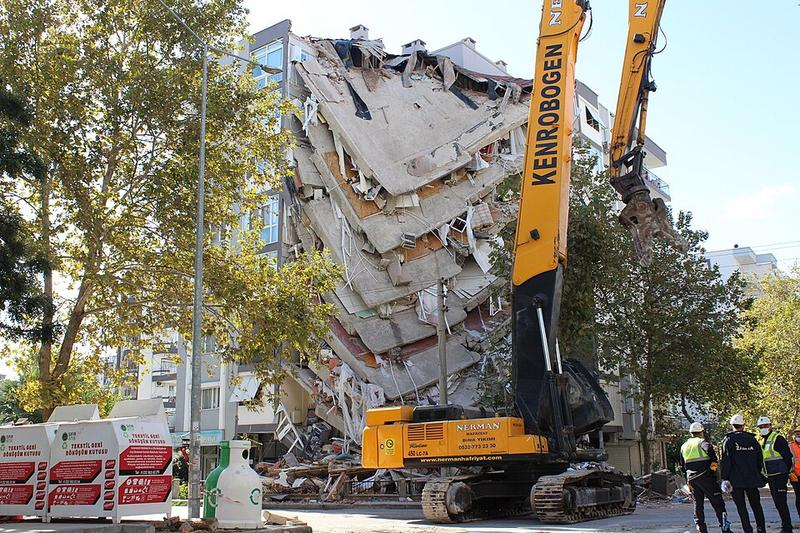
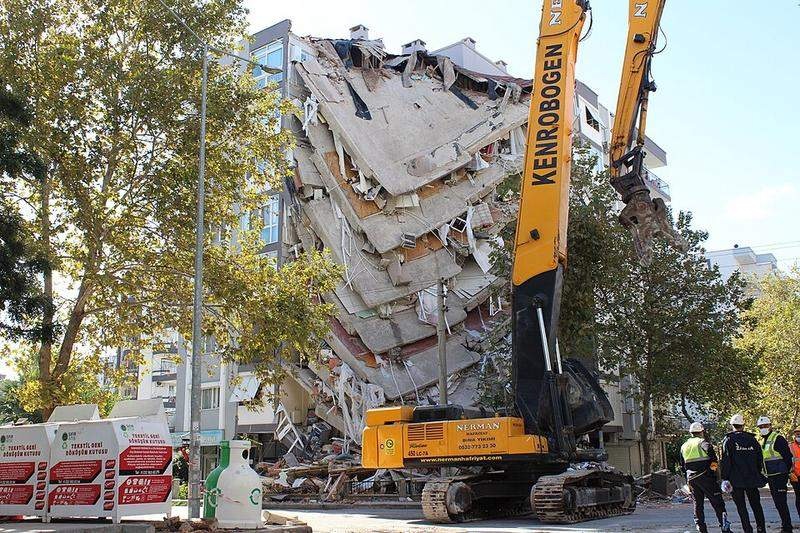
fix(web): replace corrupted level-1 landing photo
Swaps the posterized/moiré level-1.jpg for a clean CC BY-SA 4.0 photo
(Almanta via Wikimedia Commons) showing a plastered wall with a single
vertical hairline crack — correctly representing minor, superficial damage.
Also re-exports level-5.jpg at quality=65 (133 KB → 117 KB) with no
visible quality loss.

diff --git a/web/public/landing/CREDITS.md b/web/public/landing/CREDITS.md
@@ -6,7 +6,7 @@ All photos are free-licensed; treated (grayscale/darkened/resized) for this site
 | ---- | ------ | ------ | ------- |
 | hero.jpg | https://commons.wikimedia.org/wiki/File:2023_Turkey_Earthquake_Damage_4.jpg | VOA (Voice of America) | Public domain |
 | level-0.jpg | https://commons.wikimedia.org/wiki/File:Vienna_Apartment_Building_in_Spittelberg_(on_explore_at_October_14,_2025)_-_Flickr_-_Sandor_Somkuti.jpg | Sandor Somkuti | CC BY-SA 4.0 |
-| level-1.jpg | https://commons.wikimedia.org/wiki/File:Abandoned_Building_Facade_-_Cracked_Wall,_Broken_Window,_Weathered_Door_(55258978889).jpg | Michael Gaylard | CC BY 4.0 |
+| level-1.jpg | https://commons.wikimedia.org/wiki/File:Cracked_wall_02.jpg | Almanta | CC BY-SA 4.0 |
 | level-2.jpg | https://commons.wikimedia.org/wiki/File:Damaged_apartment_building_32_Buchmy_Street,_Kharkiv_after_Russian_shelling_(02).jpg | Kharkiv Future Now | CC BY-SA 4.0 |
 | level-3.jpg | https://commons.wikimedia.org/wiki/File:Duzce_1999_earthquake_damage_Bilham_889.jpg | Roger Bilham | Public domain |
 | level-4.jpg | https://commons.wikimedia.org/wiki/File:Partially_collapsed_apartment_building,_1994_Northridge_Earthquake.jpg | FEMA News Photo | Public domain |
